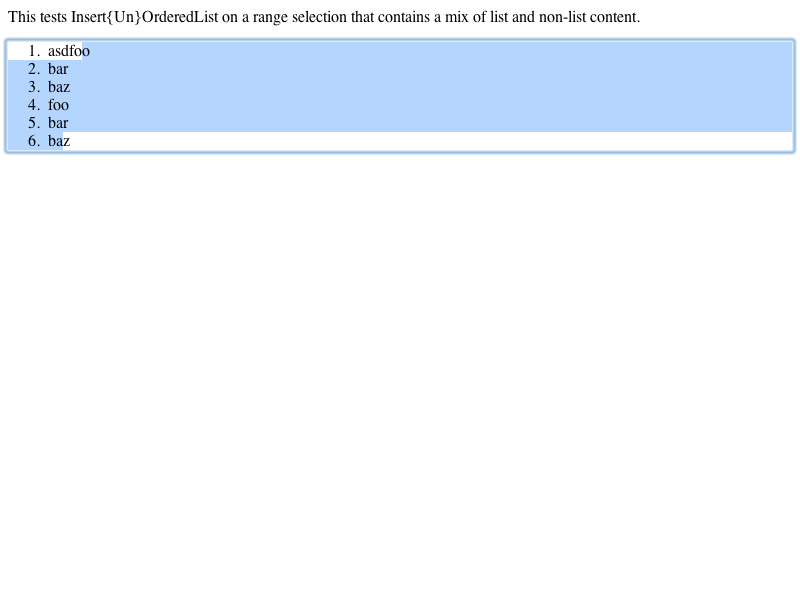
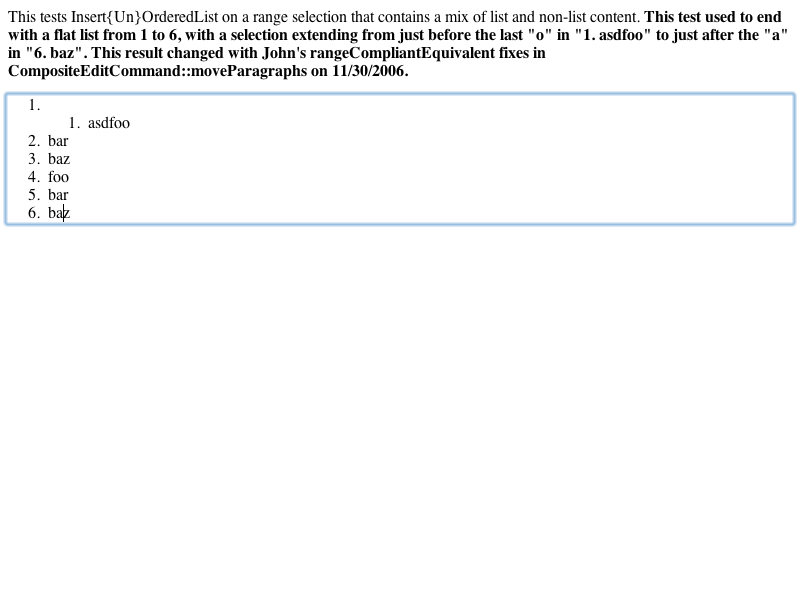
LayoutTests:
Reviewed by Justin

        * editing/execCommand/create-list-from-range-selection-expected.checksum:
        * editing/execCommand/create-list-from-range-selection-expected.png:
        * editing/execCommand/create-list-from-range-selection-expected.txt:
        * editing/execCommand/create-list-from-range-selection.html:
        This test's results were broken by using rangeCompliantEquivalent at
        appropriate places in CompositeEditCommand.cpp::moveParagraphs(), presumably
        by revealing a different bug. Justin is going to look into this; for now I've
        updated the result so that it won't appear to fail for others.
        
        * editing/execCommand/create-list-with-hr-expected.checksum:
        * editing/execCommand/create-list-with-hr-expected.png:
        * editing/execCommand/create-list-with-hr-expected.txt:
        * editing/execCommand/create-list-with-hr.html:
        This test's results were improved by using rangeCompliantEquivalent at
        appropriate places in CompositeEditCommand.cpp::moveParagraphs() -- it used
        to create an extra <div>, and now it does not.

WebCore:

        Reviewed by Justin

        With Darin, fixed a problem in the Range constructors found while implementing grammar checking.
        That revealed another problem in the layout tests involving bad parameters passed to the Range
        constructors.
[…]

Changed region(s): [[0.0, 0.0, 1.0, 0.39]]

diff --git a/LayoutTests/editing/execCommand/create-list-from-range-selection.html b/LayoutTests/editing/execCommand/create-list-from-range-selection.html
@@ -2,7 +2,10 @@
 if (window.layoutTestController)
      layoutTestController.dumpEditingCallbacks();
 </script>
-<p>This tests Insert{Un}OrderedList on a range selection that contains a mix of list and non-list content.</p>
+<p>This tests Insert{Un}OrderedList on a range selection that contains a mix of list and non-list content.
+<b>This test used to end with a flat list from 1 to 6, with a selection extending from just before the last "o"
+in "1. asdfoo" to just after the "a" in "6. baz". This result changed with John's rangeCompliantEquivalent
+fixes in CompositeEditCommand::moveParagraphs on 11/30/2006.</b></p>
 <div id="test" contenteditable="true">asd<span id="start">foo</span><br><ul><li>bar</li></ul>baz<br>foo<ol><li>bar</li></ol><span id="end">baz</span></div>
 <script>
 var s = window.getSelection();

diff --git a/LayoutTests/editing/execCommand/create-list-with-hr.html b/LayoutTests/editing/execCommand/create-list-with-hr.html
@@ -2,7 +2,7 @@
 if (window.layoutTestController)
      layoutTestController.dumpEditingCallbacks();
 </script>
-<p>This test pushes a horizontal rule into an unordered list with InsertUnorderedList. <b>The fact that the horizontal rule is put into an unnecessary div when it's pushed into the list might be considered a bug.</b></p>
+<p>This test pushes a horizontal rule into an unordered list with InsertUnorderedList.</p>
 <div contenteditable="true" id="div"><hr></div>
 
 <script>

diff --git a/WebCore/editing/CompositeEditCommand.cpp b/WebCore/editing/CompositeEditCommand.cpp
@@ -660,7 +660,11 @@ void CompositeEditCommand::moveParagraphs(const VisiblePosition& startOfParagrap
     // When we paste a fragment, spaces after the end and before the start are treated as though they were rendered.    
     Position start = startOfParagraphToMove.deepEquivalent().downstream();
     Position end = endOfParagraphToMove.deepEquivalent().upstream();
-    RefPtr<Range> range = new Range(document(), start.node(), start.offset(), end.node(), end.offset());
+    
+    // start and end can't be used directly to create a Range; they are "editing positions"
+    Position startRangeCompliant = rangeCompliantEquivalent(start);
+    Position endRangeCompliant = rangeCompliantEquivalent(end);
+    RefPtr<Range> range = new Range(document(), startRangeCompliant.node(), startRangeCompliant.offset(), endRangeCompliant.node(), endRangeCompliant.offset());
 
     // FIXME: This is an inefficient way to preserve style on nodes in the paragraph to move.  It 
     // shouldn't matter though, since moved paragraphs will usually be quite small.
@@ -704,7 +708,7 @@ void CompositeEditCommand::moveParagraphs(const VisiblePosition& startOfParagrap
     if (beforeParagraph.isNotNull() && !isEndOfParagraph(beforeParagraph))
         insertNodeAt(createBreakElement(document()).get(), beforeParagraph.deepEquivalent().node(), beforeParagraph.deepEquivalent().offset());
         
-    RefPtr<Range> startToDestinationRange(new Range(document(), Position(document(), 0), destination.deepEquivalent()));
+    RefPtr<Range> startToDestinationRange(new Range(document(), Position(document(), 0), rangeCompliantEquivalent(destination.deepEquivalent())));
     destinationIndex = TextIterator::rangeLength(startToDestinationRange.get());
     
     setEndingSelection(destination);

diff --git a/WebCore/dom/Range.cpp b/WebCore/dom/Range.cpp
@@ -56,22 +56,36 @@ Range::Range(Document* ownerDocument,
               Node* startContainer, int startOffset,
               Node* endContainer, int endOffset)
     : m_ownerDocument(ownerDocument)
-    , m_startContainer(startContainer)
-    , m_startOffset(startOffset)
-    , m_endContainer(endContainer)
-    , m_endOffset(endOffset)
+    , m_startContainer(ownerDocument)
+    , m_startOffset(0)
+    , m_endContainer(ownerDocument)
+    , m_endOffset(0)
     , m_detached(false)
 {
+    // Simply setting the containers and offsets directly would not do any of the checking
+    // that setStart and setEnd do, so we must call those functions.
+    ExceptionCode ec = 0;
+    setStart(startContainer, startOffset, ec);
+    ASSERT(ec == 0);
+    setEnd(endContainer, endOffset, ec);
+    ASSERT(ec == 0);
 }
 
 Range::Range(Document* ownerDocument, const Position& start, const Position& end)
     : m_ownerDocument(ownerDocument)
-    , m_startContainer(start.node())
-    , m_startOffset(start.offset())
-    , m_endContainer(end.node())
-    , m_endOffset(end.offset())
+    , m_startContainer(ownerDocument)
+    , m_startOffset(0)
+    , m_endContainer(ownerDocument)
+    , m_endOffset(0)
     , m_detached(false)
 {
+    // Simply setting the containers and offsets directly would not do any of the checking
+    // that setStart and setEnd do, so we must call those functions.
+    ExceptionCode ec = 0;
+    setStart(start.node(), start.offset(), ec);
+    ASSERT(ec == 0);
+    setEnd(end.node(), end.offset(), ec);
+    ASSERT(ec == 0);
 }
 
 Range::~Range()

diff --git a/WebCore/editing/TextIterator.cpp b/WebCore/editing/TextIterator.cpp
@@ -92,6 +92,10 @@ TextIterator::TextIterator(const Range *r, IteratorKind kind) : m_endContainer(0
     if (ec != 0)
         return;
 
+    // Callers should be handing us well-formed ranges. If we discover that this isn't
+    // the case, we could consider changing this assertion to an early return.
+    ASSERT(r->boundaryPointsValid());
+
     // remember ending place - this does not change
     m_endContainer = endContainer;
     m_endOffset = endOffset;

diff --git a/WebCore/dom/Position.h b/WebCore/dom/Position.h
@@ -70,7 +70,6 @@ public:
     Position upstream() const;
     Position downstream() const;
     
-    Position equivalentRangeCompliantPosition() const;
     bool inRenderedContent() const;
     bool isRenderedCharacter() const;
     bool rendersInDifferentPosition(const Position &pos) const;
